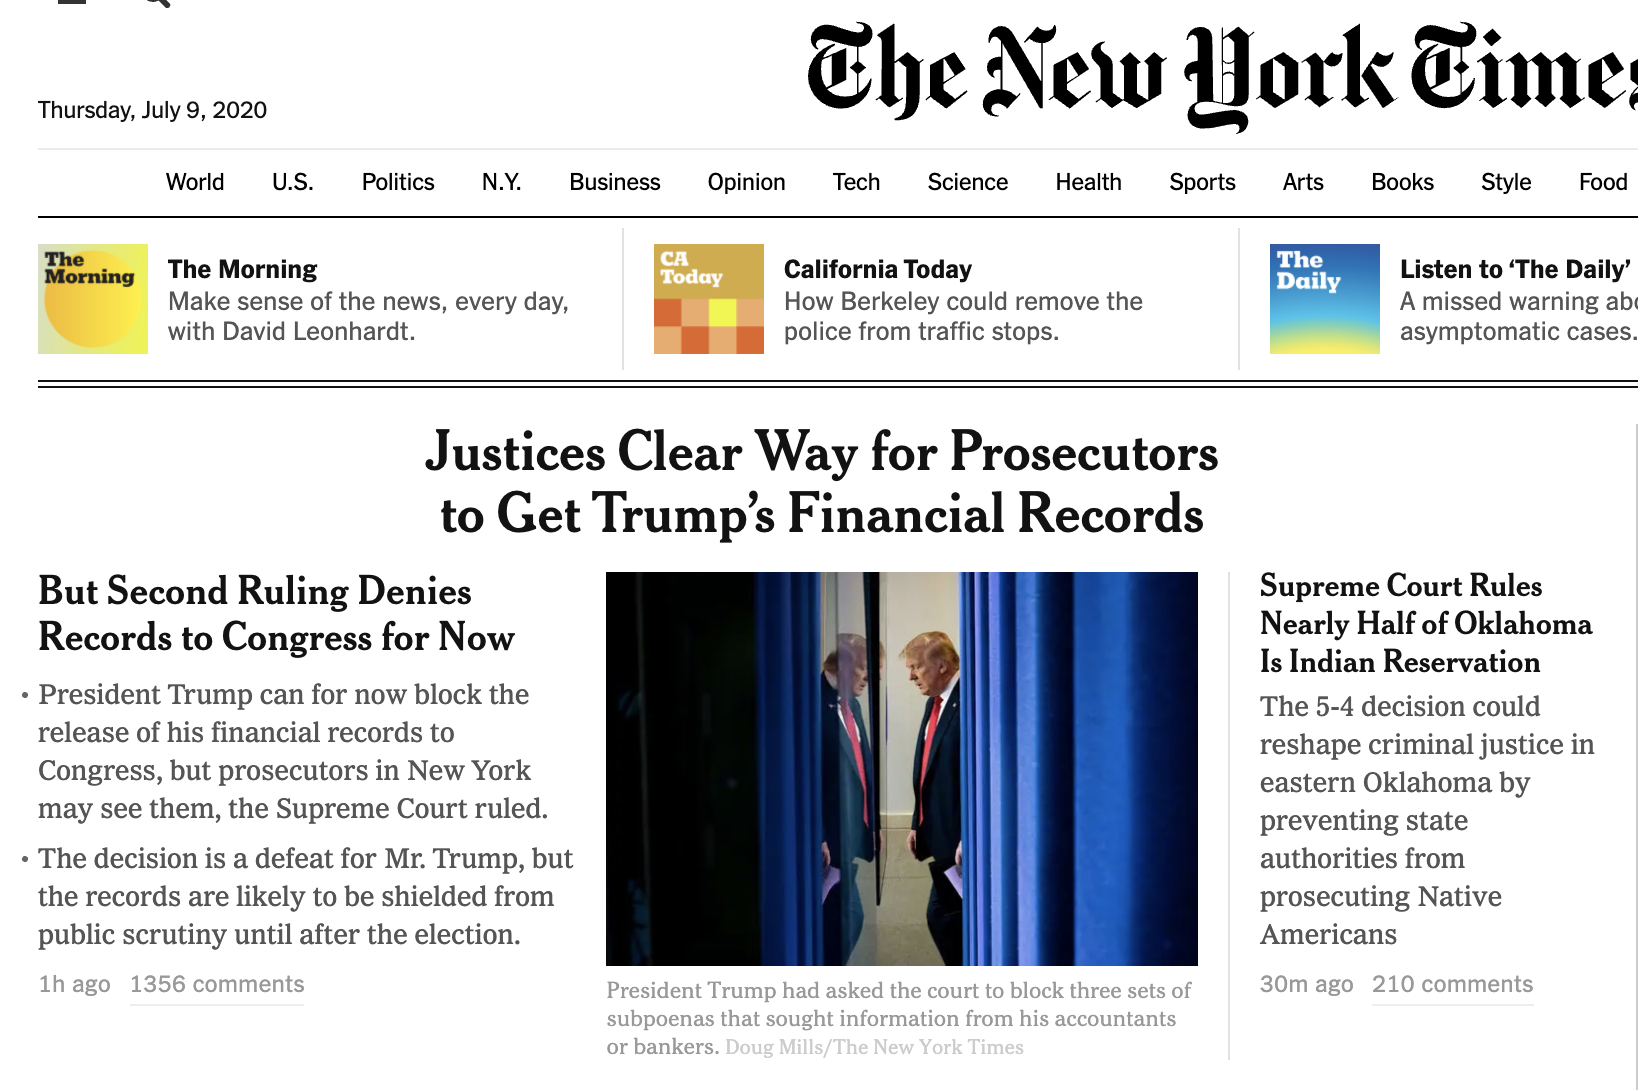
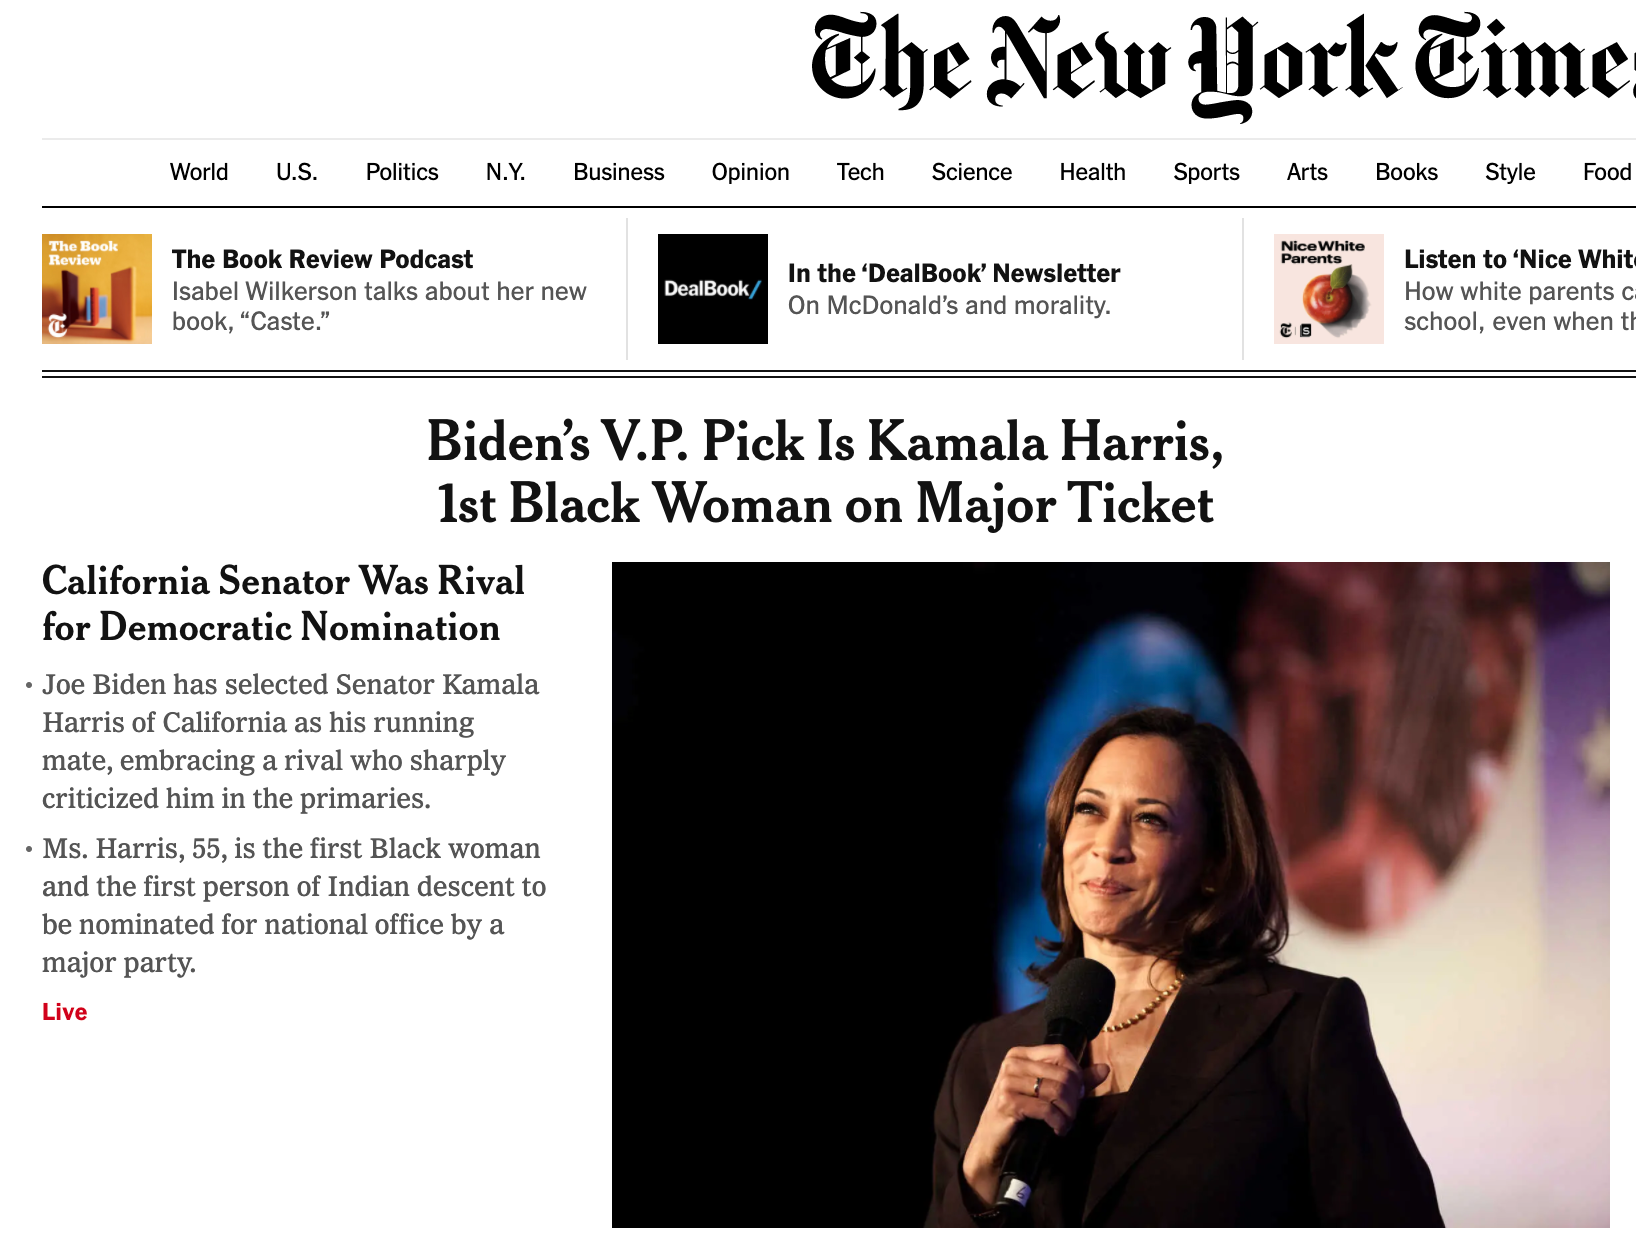
update nytimes internship headline balancer screenshot

diff --git a/src/pages/project/nytimes-internship.md b/src/pages/project/nytimes-internship.md
@@ -22,7 +22,7 @@ media:
     caption: Headline balancer in use on an article (Image from The New York Times)
   - type: image
     filename: 7.png
-    caption: Headline balancer in use on the July 9, 2020 front page
+    caption: Headline balancer in use on the August 11, 2020 front page
 type: software
 ---
 
